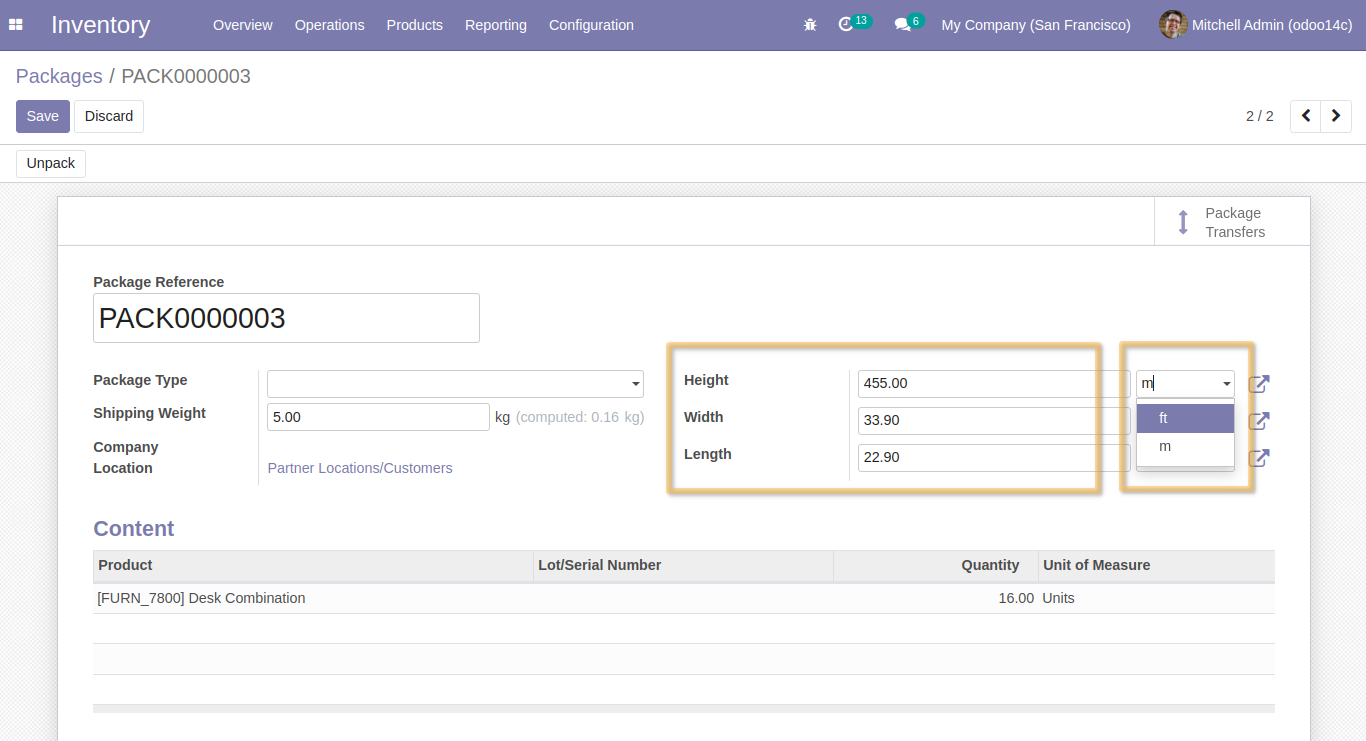
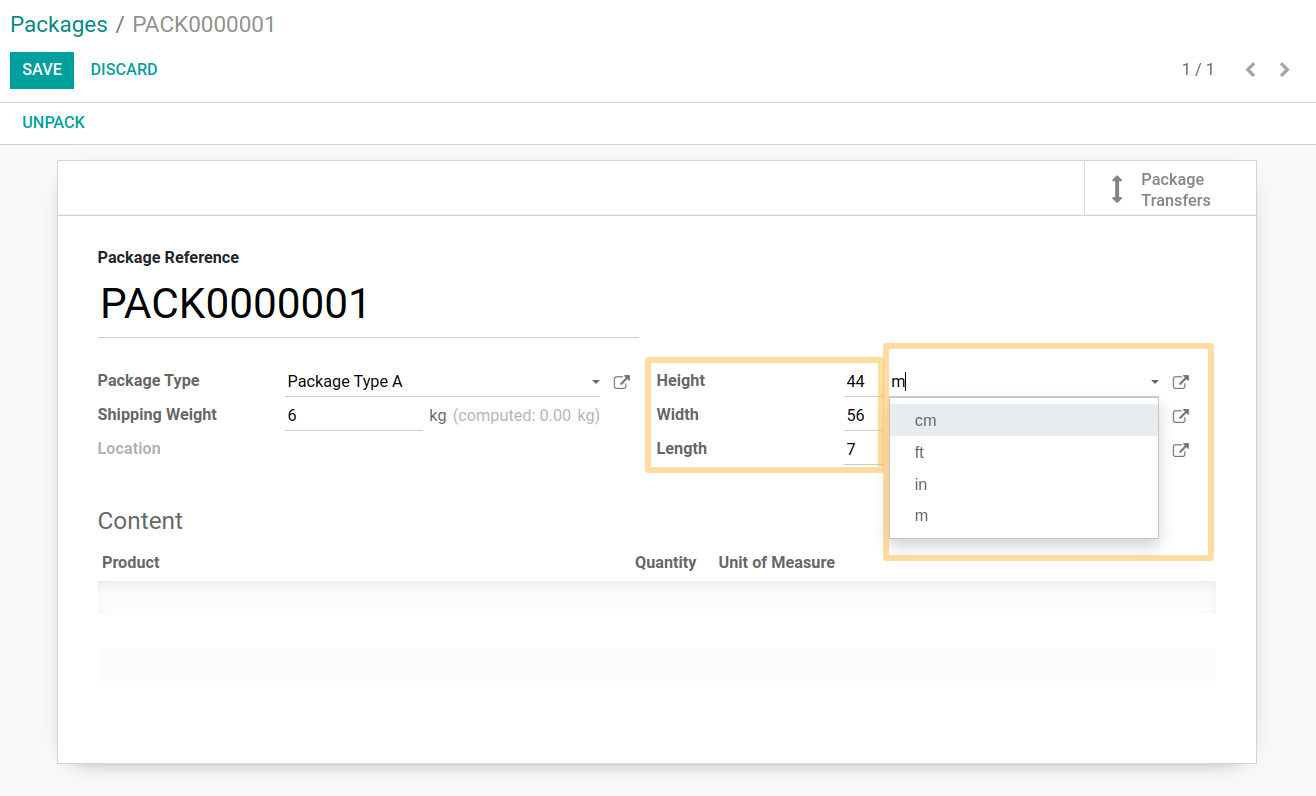
TA#53113 [CHG] updaging readme and screenshot

diff --git a/stock_product_packaging_uom/README.rst b/stock_product_packaging_uom/README.rst
@@ -9,7 +9,7 @@ As an User of Inventory, I go to ``Inventory > Products > Packages``.
 In the form view, the following fields value will be changed when selecting a package type: 
 ``Height``, ``Width`` and ``Length``.
 Values are set from the value of the package type. 
-Then,  I also can change the unit of measure of each property to ``m`` or ``ft``.
+Then,  I also can change the unit of measure of each property to ``m``, ``ft``, ``inch`` or ``cm``.
 
 .. image:: ./static/description/stock_quant_package_dimension_changes.png
 

diff --git a/stock_product_packaging_dimension/README.rst b/stock_product_packaging_dimension/README.rst
@@ -9,7 +9,7 @@ As an User of Inventory, I go to ``Inventory > Products > Packages``.
 .. image:: ./static/description/stock_quant_package_menu.png
 
 In the form view, I can see three new fields: ``Height``, ``Width`` and ``Length`` that can be in decimal value.
-I also can change the unit of measure of each property to ``m`` or ``ft``.
+I also can change the unit of measure of each property to ``m``, ``ft``, ``inch`` or ``cm``.
 
 .. image:: ./static/description/stock_quant_package_dimension.png
 
